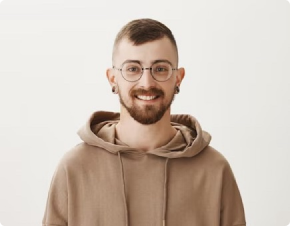
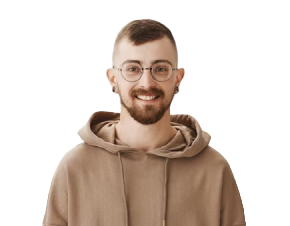
Доробив адаптив вчителів

diff --git a/src/sass/components/teachers/_teachers.scss b/src/sass/components/teachers/_teachers.scss
@@ -13,6 +13,7 @@
     display: flex;
     flex-direction: column;
     gap: 20px;
+    align-items: center;
   }
 
   &__card {
@@ -20,13 +21,22 @@
     border: 0.0111px solid $colorBorders;
     border-radius: 10px;
     background-color: $colorBackground;
+    display: flex;
+    align-items: center;
+    flex-direction: column;
   }
 }
 
 .teacher {
   &__img {
     border-radius: 5px;
+    object-fit: cover;
+  }
+
+  &__photo {
     margin-bottom: 30px;
+    width: 258px;
+    height: 201px;
   }
 
   &__name {
@@ -88,6 +98,13 @@
       flex-basis: calc((100% - 40px) / 2);
     }
   }
+
+  .teacher {
+    &__photo {
+      width: 258px;
+      height: 201px;
+    }
+  }
 }
 
 @media (min-width: 1024px) {
@@ -125,7 +142,7 @@
 @media (min-width: 1240px) {
   .teachers {
     &__container {
-      padding-inline: 80px;
+      padding-inline: 70px;
     }
 
     &__title {
@@ -139,6 +156,7 @@
 
     &__card {
       flex-basis: calc((100% - 60px) / 4);
+      min-height: 340px;
     }
   }
 
@@ -150,6 +168,11 @@
       font-size: 14px;
       line-height: 1.45;
     }
+
+    &__photo {
+      width: 227px;
+      height: 186px;
+    }
   }
 }
 
@@ -157,7 +180,6 @@
   .teachers {
     &__container {
       padding: 0;
-      max-width: 1537px;
     }
 
     &__title {
@@ -169,12 +191,20 @@
       gap: 0;
       justify-content: space-between;
     }
+    &__card {
+      min-height: 0;
+    }
   }
 
   .teacher {
     &__name {
       font-size: 18px;
       margin-bottom: 5px;
+    }
+
+    &__photo {
+      width: 227px;
+      height: 186px;
     }
   }
 }
